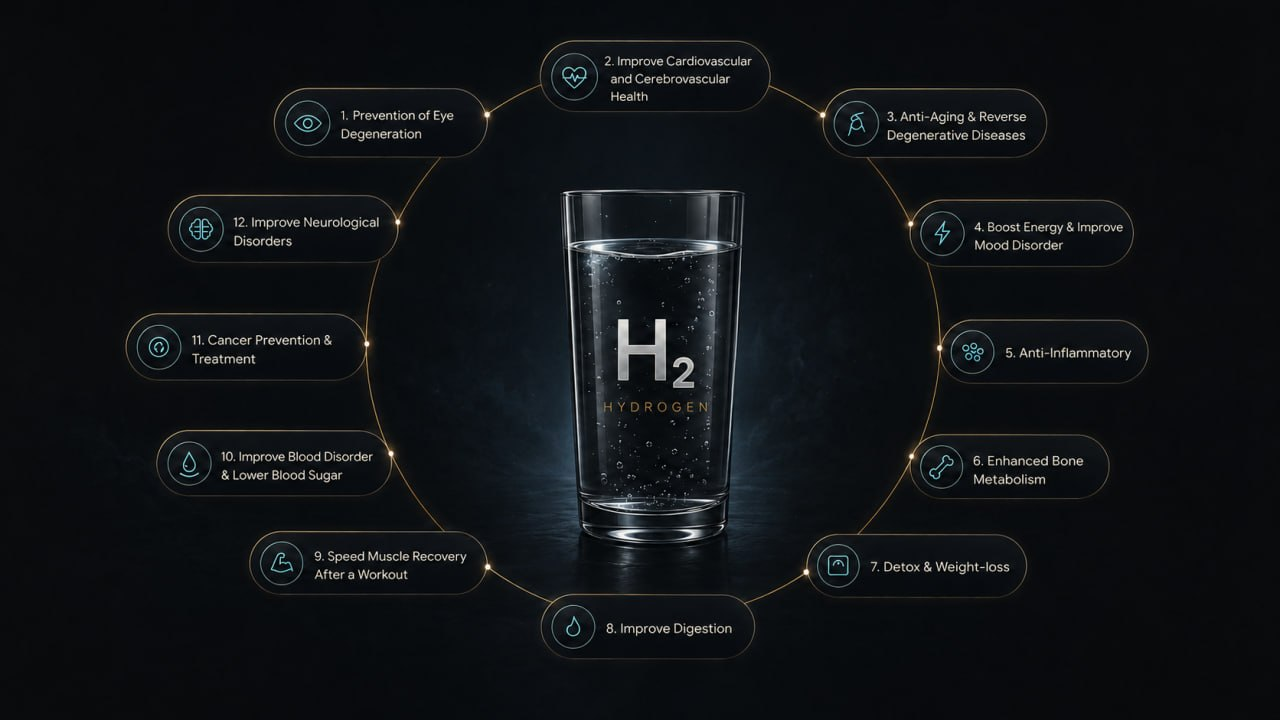
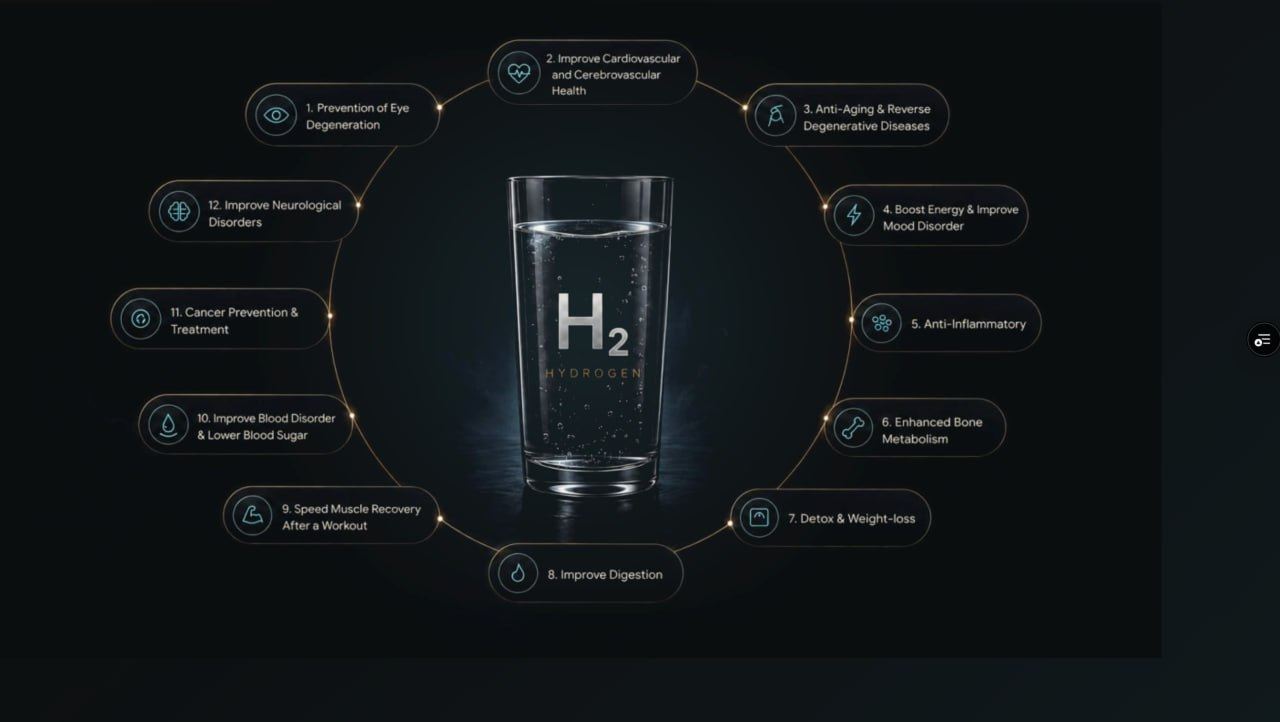
fix: render benefits image without color effects

diff --git a/index.html b/index.html
@@ -174,8 +174,7 @@
       </div>
 
       <figure id="benefits" aria-label="Hydrogen-rich water benefit visualization" style="margin: 0 auto; max-width: 1180px; position: relative; background: #0B0D0F;">
-        <div style="position: absolute; inset: 8% 6%; border-radius: 32px; background: radial-gradient(circle at 50% 48%, rgba(111,210,240,0.12), rgba(11,13,15,0) 58%); filter: blur(14px); pointer-events: none;"></div>
-        <img src="assets/hydrogen-benefits-orbit.jpg" alt="Hydrogen benefits orbit visual with H2 water glass and twelve benefit concepts: Prevention of Eye Degeneration, Improve Cardiovascular and Cerebrovascular Health, Anti-Aging and Reverse Degenerative Diseases, Boost Energy and Improve Mood Disorder, Anti-Inflammatory, Enhanced Bone Metabolism, Detox and Weight-loss, Improve Digestion, Speed Muscle Recovery After a Workout, Improve Blood Disorder and Lower Blood Sugar, Cancer Prevention and Treatment, Improve Neurological Disorders." loading="eager" decoding="async" style="position: relative; width: 100%; height: auto; border: 0; border-radius: 0; box-shadow: none; background: #0B0D0F; mix-blend-mode: lighten; -webkit-mask-image: linear-gradient(90deg, transparent 0%, #000 5%, #000 95%, transparent 100%), linear-gradient(180deg, transparent 0%, #000 6%, #000 94%, transparent 100%); -webkit-mask-composite: source-in; mask-image: linear-gradient(90deg, transparent 0%, #000 5%, #000 95%, transparent 100%), linear-gradient(180deg, transparent 0%, #000 6%, #000 94%, transparent 100%);" />
+        <img src="assets/hydrogen-benefits-orbit.jpg" alt="Hydrogen benefits orbit visual with H2 water glass and twelve benefit concepts: Prevention of Eye Degeneration, Improve Cardiovascular and Cerebrovascular Health, Anti-Aging and Reverse Degenerative Diseases, Boost Energy and Improve Mood Disorder, Anti-Inflammatory, Enhanced Bone Metabolism, Detox and Weight-loss, Improve Digestion, Speed Muscle Recovery After a Workout, Improve Blood Disorder and Lower Blood Sugar, Cancer Prevention and Treatment, Improve Neurological Disorders." loading="eager" decoding="async" style="display: block; width: 100%; height: auto; border: 0; border-radius: 0; box-shadow: none; background: transparent;" />
       </figure>
 
       <div style="margin: clamp(34px, 5vw, 68px) auto 0; max-width: 1120px;">
